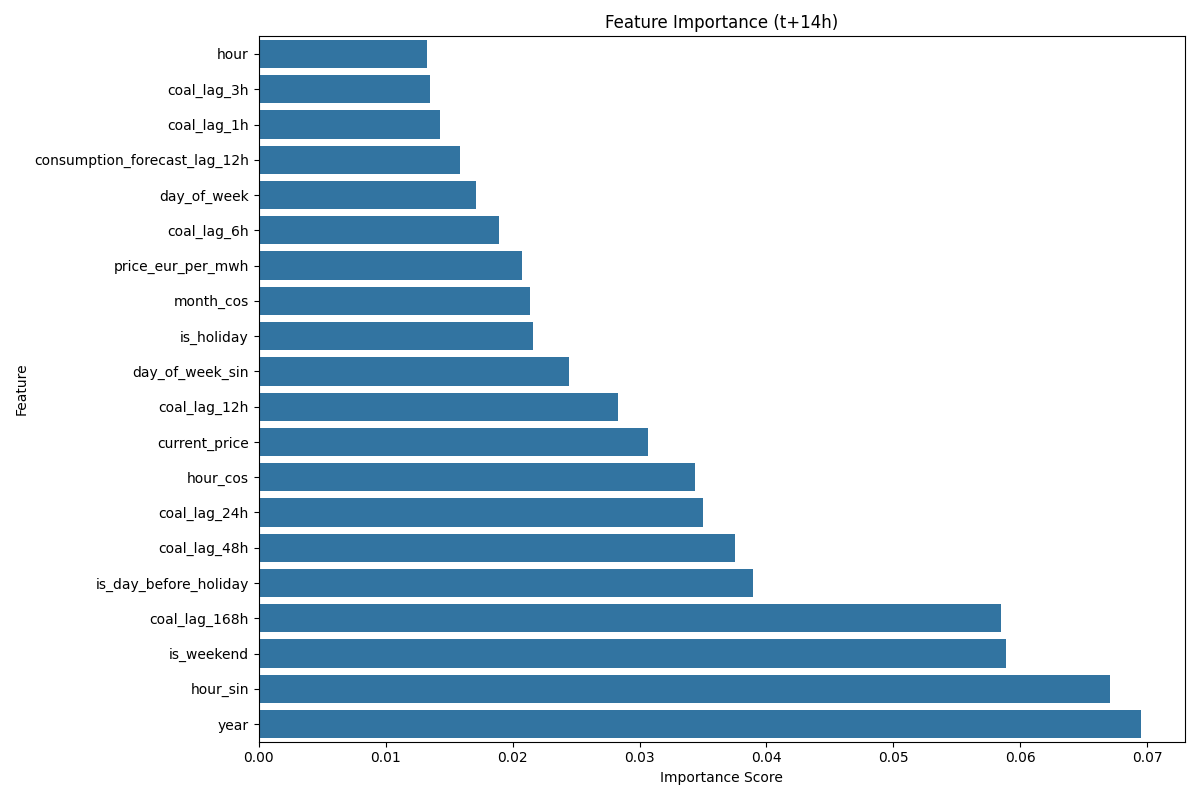
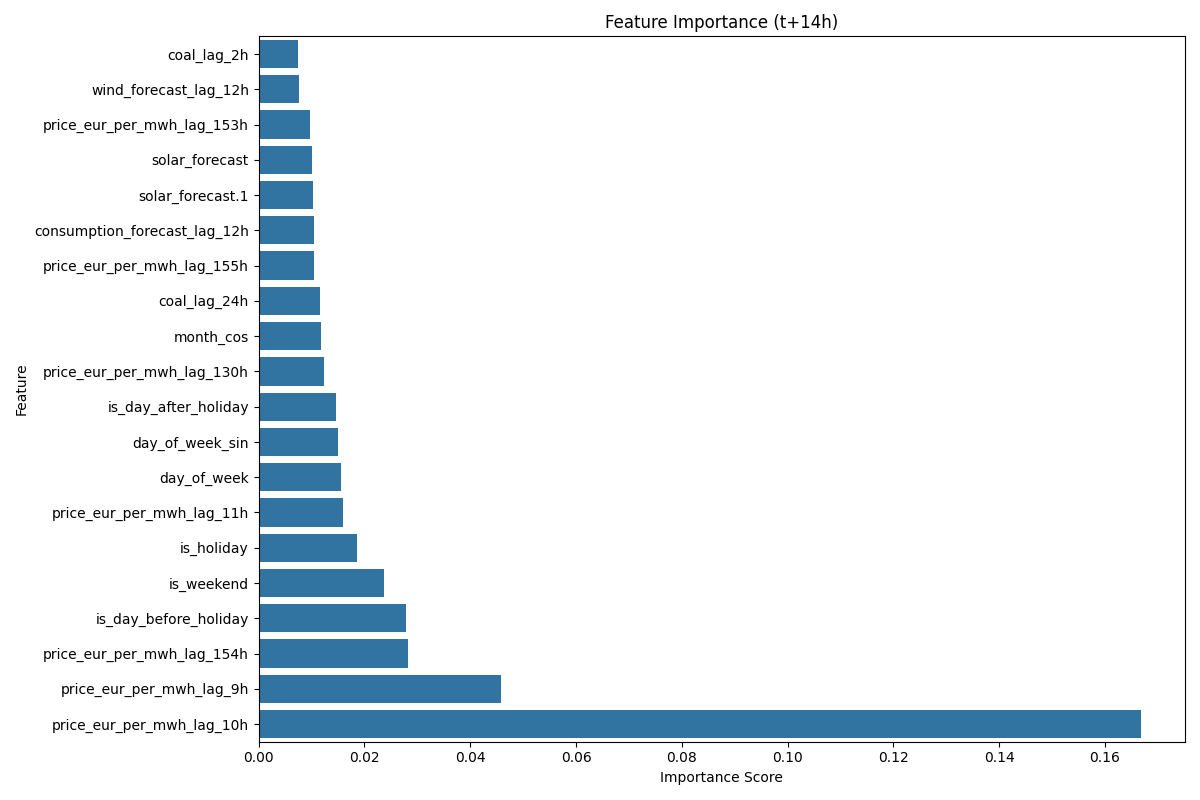
Update model implementations and features: - Fix target column name in xgboost_hyperopt.py - Add rolling statistics and price differences to multivariate features - Update linear model with lags implementation - Update XGBoost prediction plots and feature importance visualizations

diff --git a/models_14_38/Linear_with_lags/simple_linear_lags_and_dummies.py b/models_14_38/Linear_with_lags/simple_linear_lags_and_dummies.py
@@ -45,16 +45,31 @@ class SimpleLinearLagsAndDummies:
         self.models = {}  # One model per horizon
         self.scalers = {}  # One scaler per horizon
         self.significant_lags = {
-            14: ['price_lag_1h', 'price_lag_2h','price_lag_3h','price_lag_10h','price_lag_154h'],
-            15: ['price_lag_1h', 'price_lag_2h','price_lag_3h','price_lag_9h','price_lag_153h'],
-            16: ['price_lag_1h', 'price_lag_2h','price_lag_3h','price_lag_8h','price_lag_152h'],
-            17: ['price_lag_1h', 'price_lag_2h','price_lag_3h','price_lag_7h','price_lag_151h'],
-            18: ['price_lag_1h', 'price_lag_2h','price_lag_3h','price_lag_6h','price_lag_150h'],
-            19: ['price_lag_1h', 'price_lag_2h','price_lag_3h','price_lag_5h','price_lag_149h'],
-            20: ['price_lag_1h', 'price_lag_2h','price_lag_3h','price_lag_4h','price_lag_148h'],
-            21: ['price_lag_1h', 'price_lag_2h','price_lag_3h','price_lag_147h'],
-            22: ['price_lag_1h', 'price_lag_2h','price_lag_3h','price_lag_146h'],
-            23: ['price_lag_1h', 'price_lag_2h','price_lag_3h','price_lag_145h'],
+            14: ['price_eur_per_mwh_lag_1h', 'price_eur_per_mwh_lag_2h', 'price_eur_per_mwh_lag_3h', 'price_eur_per_mwh_lag_10h', 'price_eur_per_mwh_lag_154h'],
+            15: ['price_eur_per_mwh_lag_1h', 'price_eur_per_mwh_lag_2h', 'price_eur_per_mwh_lag_3h', 'price_eur_per_mwh_lag_9h', 'price_eur_per_mwh_lag_153h'],
+            16: ['price_eur_per_mwh_lag_1h', 'price_eur_per_mwh_lag_2h', 'price_eur_per_mwh_lag_3h', 'price_eur_per_mwh_lag_8h', 'price_eur_per_mwh_lag_152h'],
+            17: ['price_eur_per_mwh_lag_1h', 'price_eur_per_mwh_lag_2h', 'price_eur_per_mwh_lag_3h', 'price_eur_per_mwh_lag_7h', 'price_eur_per_mwh_lag_151h'],
+            18: ['price_eur_per_mwh_lag_1h', 'price_eur_per_mwh_lag_2h', 'price_eur_per_mwh_lag_3h', 'price_eur_per_mwh_lag_6h', 'price_eur_per_mwh_lag_150h'],
+            19: ['price_eur_per_mwh_lag_1h', 'price_eur_per_mwh_lag_2h', 'price_eur_per_mwh_lag_3h', 'price_eur_per_mwh_lag_5h', 'price_eur_per_mwh_lag_149h'],
+            20: ['price_eur_per_mwh_lag_1h', 'price_eur_per_mwh_lag_2h', 'price_eur_per_mwh_lag_3h', 'price_eur_per_mwh_lag_4h', 'price_eur_per_mwh_lag_148h'],
+            21: ['price_eur_per_mwh_lag_1h', 'price_eur_per_mwh_lag_2h', 'price_eur_per_mwh_lag_3h', 'price_eur_per_mwh_lag_147h'],
+            22: ['price_eur_per_mwh_lag_1h', 'price_eur_per_mwh_lag_2h', 'price_eur_per_mwh_lag_3h', 'price_eur_per_mwh_lag_146h'],
+            23: ['price_eur_per_mwh_lag_1h', 'price_eur_per_mwh_lag_2h', 'price_eur_per_mwh_lag_3h', 'price_eur_per_mwh_lag_145h'],
+            24: ['price_eur_per_mwh_lag_1h', 'price_eur_per_mwh_lag_2h', 'price_eur_per_mwh_lag_3h', 'price_eur_per_mwh_lag_144h'],
+            25: ['price_eur_per_mwh_lag_1h', 'price_eur_per_mwh_lag_2h', 'price_eur_per_mwh_lag_3h', 'price_eur_per_mwh_lag_23h', 'price_eur_per_mwh_lag_143h'],
+            26: ['price_eur_per_mwh_lag_1h', 'price_eur_per_mwh_lag_2h', 'price_eur_per_mwh_lag_3h', 'price_eur_per_mwh_lag_22h', 'price_eur_per_mwh_lag_142h'],
+            27: ['price_eur_per_mwh_lag_1h', 'price_eur_per_mwh_lag_2h', 'price_eur_per_mwh_lag_3h', 'price_eur_per_mwh_lag_21h', 'price_eur_per_mwh_lag_141h'],
+            28: ['price_eur_per_mwh_lag_1h', 'price_eur_per_mwh_lag_2h', 'price_eur_per_mwh_lag_3h', 'price_eur_per_mwh_lag_20h', 'price_eur_per_mwh_lag_140h'],
+            29: ['price_eur_per_mwh_lag_1h', 'price_eur_per_mwh_lag_2h', 'price_eur_per_mwh_lag_3h', 'price_eur_per_mwh_lag_19h', 'price_eur_per_mwh_lag_139h'],
+            30: ['price_eur_per_mwh_lag_1h', 'price_eur_per_mwh_lag_2h', 'price_eur_per_mwh_lag_3h', 'price_eur_per_mwh_lag_18h', 'price_eur_per_mwh_lag_138h'],
+            31: ['price_eur_per_mwh_lag_1h', 'price_eur_per_mwh_lag_2h', 'price_eur_per_mwh_lag_3h', 'price_eur_per_mwh_lag_17h', 'price_eur_per_mwh_lag_137h'],
+            32: ['price_eur_per_mwh_lag_1h', 'price_eur_per_mwh_lag_2h', 'price_eur_per_mwh_lag_3h', 'price_eur_per_mwh_lag_16h', 'price_eur_per_mwh_lag_136h'],
+            33: ['price_eur_per_mwh_lag_1h', 'price_eur_per_mwh_lag_2h', 'price_eur_per_mwh_lag_3h', 'price_eur_per_mwh_lag_15h', 'price_eur_per_mwh_lag_135h'],
+            34: ['price_eur_per_mwh_lag_1h', 'price_eur_per_mwh_lag_2h', 'price_eur_per_mwh_lag_3h', 'price_eur_per_mwh_lag_14h', 'price_eur_per_mwh_lag_134h'],
+            35: ['price_eur_per_mwh_lag_1h', 'price_eur_per_mwh_lag_2h', 'price_eur_per_mwh_lag_3h', 'price_eur_per_mwh_lag_13h', 'price_eur_per_mwh_lag_133h'],
+            36: ['price_eur_per_mwh_lag_1h', 'price_eur_per_mwh_lag_2h', 'price_eur_per_mwh_lag_3h', 'price_eur_per_mwh_lag_12h', 'price_eur_per_mwh_lag_132h'],
+            37: ['price_eur_per_mwh_lag_1h', 'price_eur_per_mwh_lag_2h', 'price_eur_per_mwh_lag_3h', 'price_eur_per_mwh_lag_11h', 'price_eur_per_mwh_lag_131h'],
+            38: ['price_eur_per_mwh_lag_1h', 'price_eur_per_mwh_lag_2h', 'price_eur_per_mwh_lag_3h', 'price_eur_per_mwh_lag_10h', 'price_eur_per_mwh_lag_130h'],
             24: ['price_lag_1h', 'price_lag_2h','price_lag_3h','price_lag_144h'],
             25: ['price_lag_1h', 'price_lag_2h','price_lag_3h','price_lag_23h','price_lag_143h'],
             26: ['price_lag_1h', 'price_lag_2h','price_lag_3h','price_lag_22h','price_lag_142h'],
@@ -168,70 +183,73 @@ class SimpleLinearLagsAndDummies:
 
 
 def main():
-    # Load data
-    # Load data
-    print("Loading data...")
-    data = pd.read_csv('data/processed/multivariate_features.csv')
 
-    data.index = pd.to_datetime(data.index, utc=True)
-    data = data.asfreq('h')  
+    print("Loading data...") 
+    # Load multivariate features
+    project_root = os.path.dirname(os.path.dirname(os.path.dirname(os.path.abspath(__file__))))
+    features_path = os.path.join(project_root, 'data', 'processed', 'multivariate_features.csv')
+    data = pd.read_csv(features_path, index_col=0)
+    data.index = pd.to_datetime(data.index)
     
-    # Split into training (up to Jan 2024) and test data
-    train_data = data[data.index < '2024-01-01']
-    test_data = data[data.index >= '2024-01-01']
-    
-    print("Data shape:", data.shape)
+    # Initialize model
+    model = SimpleLinearLagsAndDummies(horizons=[14, 24, 38]) 
 
+    # Define train-test split
+    train_start = pd.Timestamp('2023-01-08', tz='Europe/Amsterdam')
+    train_end = pd.Timestamp('2024-01-29', tz='Europe/Amsterdam')
+    test_start = pd.Timestamp('2024-01-29', tz='Europe/Amsterdam')
+    test_end = pd.Timestamp('2024-03-01', tz='Europe/Amsterdam')
     
-    # Train model
-    model = SimpleLinearLagsAndDummies()
-    model.train(train_data)
+    train_df = data[train_start:train_end]
+    test_df = data[test_start:test_end]
     
-    # Make predictions on test set
-    print("\nMaking predictions on test set...")
-    predictions = model.predict(test_data)
+    # Train and evaluate
+    results = {}
+    for horizon in model.horizons:
+        print(f"\nTraining and evaluating horizon t+{horizon}h...")
+        results[horizon] = model.train_and_evaluate(train_df, test_df, horizon)
     
-    # Create necessary directories
-    os.makedirs('plots/hybrid', exist_ok=True)
-    os.makedirs('predictions', exist_ok=True)
-
-
-
-    # Calculate and print test metrics
-    print("\nTest metrics:")
-    for h in [14, 24, 38]:  # Show metrics for key horizons
-        actuals = test_data[f'target_t{h}']
-        pred = predictions[f'pred_t{h}']
-        
-        # Calculate metrics
-        metrics = calculate_metrics(actual, pred)
-        
-        print(f"\nHorizon t+{h}:")
-        print(f"MAE: {metrics['MAE']:.2f}")
+    # Plot predictions
+    for horizon in model.horizons:
+        result = results[horizon]
+        predictions_df = result['predictions']
+        metrics = result['metrics']
+        print(f"\nt+{horizon}h horizon:")
+        print(f"Number of predictions: {len(predictions_df)}")
         print(f"RMSE: {metrics['RMSE']:.2f}")
-        print(f"R2: {metrics['R2']:.2f}")
         print(f"SMAPE: {metrics['SMAPE']:.2f}%")
-        
-        # Create and save prediction plot
-        plot_predictions(test_data.index, actuals, predictions, h, f'Linear Model with Lags and Dummies: {h}-hour Ahead Predictions', save_path=f'plots/hybrid/forecast_h{h}.png')
-    
-    # Plot predictions vs actuals
-        plt.figure(figsize=(15, 6))
-        plt.plot(timestamps, actuals, label='Actual', alpha=0.7)
-        plt.plot(timestamps, predictions, label='Predicted', alpha=0.7)
-        plt.title(title, fontsize=14, pad=20)
-        plt.xlabel('Date', fontsize=12)
-        plt.ylabel('Price (EUR/MWh)', fontsize=12)
-        plt.legend(fontsize=10, loc='upper right')
-        plt.grid(True, alpha=0.3)
-        plt.xticks(rotation=45)
-        plt.tight_layout()
-        os.makedirs('plots/linear_with_lags', exist_ok=True)
-        plt.savefig(f'plots/linear_with_lags/forecast_h{h}.png')
+        print(f"R2: {metrics['R2']:.4f}")
+
+    # Create output directory
+    out_dir = 'models_14_38/Linear_with_lags/plots'
+    os.makedirs(out_dir, exist_ok=True)
+
+    # Plot feature importance for each horizon
+    for horizon in model.horizons:
+        importance_df = results[horizon]['feature_importance']
+        plot_feature_importance(
+            importance_df,
+            top_n=20,
+            title=f'Feature Importance (t+{horizon}h)',
+            filename=f'{out_dir}/feature_importance_h{horizon}.png'
+        )
         plt.close()
-    return plt
         
-    
+    # Plot predictions over time
+    for horizon in model.horizons:
+        predictions_df = results[horizon]['predictions']
+        plt.figure(figsize=(15, 6))
+        plt.plot(predictions_df.index, predictions_df['actual'], label='Actual', alpha=0.7)
+        plt.plot(predictions_df.index, predictions_df['predicted'], label='Predicted', alpha=0.7)
+        plt.title(f'Actual vs Predicted Prices Over Time (t+{horizon}h)')
+        plt.xlabel('Date')
+        plt.ylabel('Price (EUR/MWh)')
+        plt.legend()
+        plt.grid(True)
+        plt.tight_layout()
+        plt.savefig(f'{out_dir}/predictions_over_time_h{horizon}.png')
+        plt.close()
+
 
 if __name__ == "__main__":
     main()

diff --git a/data/data processing/prepare_multivariate_features.py b/data/data processing/prepare_multivariate_features.py
@@ -30,6 +30,22 @@ def create_price_time_features(df):
     features['is_weekend'] = features['day_of_week'].isin([5, 6])
     return features
 
+
+def create_rolling_statistics(df, price_col='price_eur_per_mwh', windows=[3, 6, 12, 24, 48, 72, 168]):
+    """Create rolling statistics for price data."""
+    features = pd.DataFrame(index=df.index)
+    for window in windows:
+        features[f'rolling_mean_{window}h'] = df[price_col].rolling(window=window).mean()
+        features[f'rolling_std_{window}h'] = df[price_col].rolling(window=window).std()
+    return features
+
+def create_price_differences(df, price_col='price_eur_per_mwh', windows=[1, 2, 3, 24, 48, 72, 168]):
+    """Create price differences for time series forecasting."""
+    features = pd.DataFrame(index=df.index)
+    for window in windows:
+        features[f'price_diff_{window}h'] = df[price_col].diff(window)
+    return features
+
 def create_holiday_features(df):
     """Create holiday-related features for the Netherlands."""
     nl_holidays = holidays.NL()

diff --git a/models_14_38/xgboost/xgboost_hyperopt.py b/models_14_38/xgboost/xgboost_hyperopt.py
@@ -30,7 +30,7 @@ class XGBoostHyperopt:
         """Prepare features and target for a specific horizon"""
         feature_cols = [col for col in data.columns if not col.startswith('target_t')]
         X = data[feature_cols]
-        y = data[f'target_t{horizon}.1']
+        y = data[f'target_t{horizon}']
         return X, y
         
     def objective(self, params, train_x, train_y, valid_x, valid_y):
